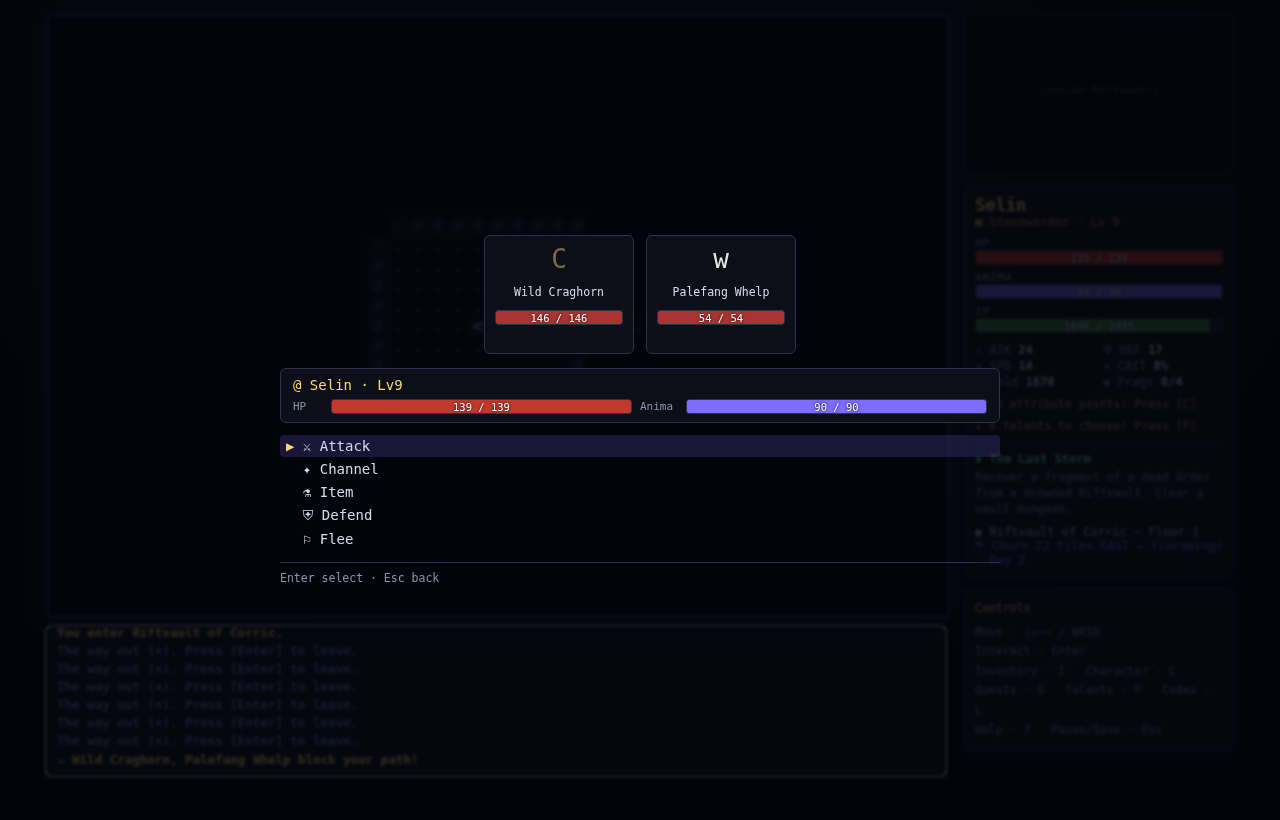
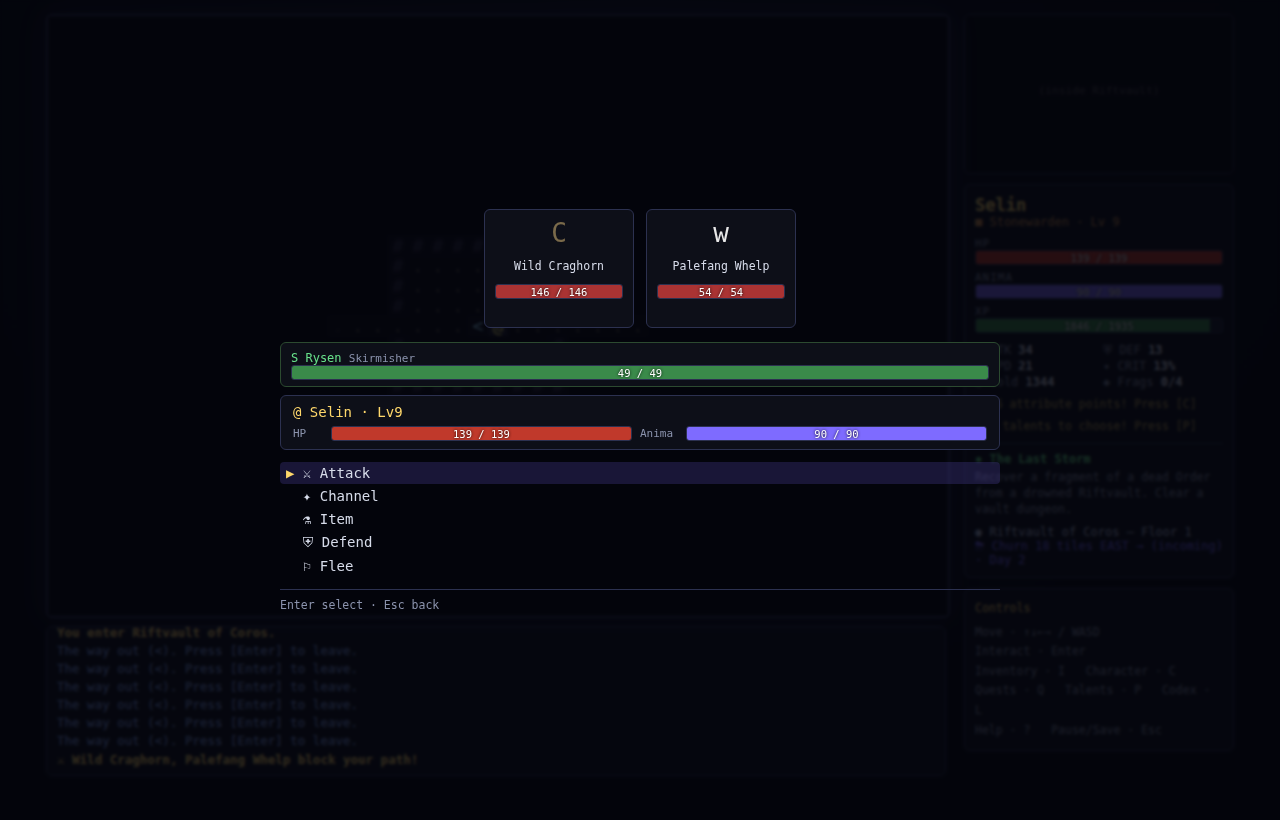
Companions: recruit followers who fight at your side
Recruit up to two companions at any hold's tavern (Warrior, Warden, Skirmisher,
Channeler — each with role-based stats). They join the combat resolver as a
true ally side:
- allies take initiative turns with a simple role AI (Channelers cast/heal you,
  Wardens guard, others swing);
- enemies now choose targets among you and your party (you're twice as likely);
- enemy AoE hits the whole party; allies can be DOWNED without ending the
  battle and revive to half HP after a win.
Combat UI shows ally HP bars; the character screen lists your party.

New src/data/companions.js; combat ally side + targeting + death handling;
recruit town service + screen; party persisted in saves.

Tests: logic 837 (incl. ally combat), desktop 37 (recruit + companion in
battle), mobile 15 — all green.

Claude-Session: https://claude.ai/code/session_012JuAjoBx2YqM5W9EUw89GY

Changed region(s): [[0.2188, 0.4268, 0.7812, 0.7622], [0.375, 0.2744, 0.625, 0.3963], [0.3125, 0.7012, 0.3438, 0.7622]]

diff --git a/src/screens.js b/src/screens.js
@@ -363,6 +363,12 @@
       html += '<div class="ch-h">Arts Known</div><div class="ab-list">';
       p.knownAbilities.forEach(function (id) { const ab = TLU.Abilities[id]; html += '<span class="ab">' + ab.name + ' <i>(' + (ab.cost || 0) + ')</i></span>'; });
       html += '</div>';
+      if (p.party && p.party.length) {
+        html += '<div class="ch-h">Companions</div><div class="ab-list">';
+        p.party.forEach(function (a) { html += '<span class="ab" style="color:' + a.color + '">' + esc(a.glyph + ' ' + a.name) + ' <i>' + a.roleName + ' Lv' + a.level + '</i></span>'; });
+        html += '</div>';
+      }
+      if (p.discoveries) html += '<div class="ch-d" style="margin-top:6px">◹ Discoveries charted: ' + p.discoveries + '</div>';
       html += '<div class="menu-foot">↑/↓ select attribute · Enter spend point · [P] perks · Esc close</div></div>';
       return html;
     },
@@ -464,13 +470,14 @@
 
   // ---- TOWN ----
   SCREENS.town = {
-    services: [['Rest at the inn (10g)', 'rest'], ['Visit the merchant', 'shop'], ['Visit the smith', 'smith'], ['Visit the alchemist', 'alchemy'], ['Train skills', 'train'], ['Speak with the townsfolk', 'folk'], ['Speak with the Warden', 'speak'], ['Leave'.toString(), 'leave']],
+    services: [['Rest at the inn (10g)', 'rest'], ['Visit the merchant', 'shop'], ['Visit the smith', 'smith'], ['Visit the alchemist', 'alchemy'], ['Train skills', 'train'], ['Speak with the townsfolk', 'folk'], ['Speak with the Warden', 'speak'], ['Recruit a companion', 'recruit'], ['Leave'.toString(), 'leave']],
     render: function (g) {
       const o = g.overlay, site = o.site;
       if (o.sub === 'shop') return SCREENS.town.renderShop(g);
       if (o.sub === 'train') return SCREENS.town.renderTrain(g);
       if (o.sub === 'smith') return SCREENS.town.renderSmith(g);
       if (o.sub === 'alchemy') return SCREENS.town.renderAlchemy(g);
+      if (o.sub === 'recruit') return SCREENS.town.renderRecruit(g);
       let html = '<div class="panel town"><div class="menu-title">⌂ ' + esc(site.name) + '</div>' +
         '<div class="town-desc">A churn-bunkered hold of the ' + (site.level > 6 ? 'eastern frontier' : 'western plains') + '. Travelers shelter behind its windward wall.</div>';
       html += UI.renderMenu({ items: SCREENS.town.services.map(function (s) { return { label: s[0] }; }), cursor: o.cursor });
@@ -483,12 +490,14 @@
       if (o.sub === 'train') return SCREENS.town.keyTrain(g, k);
       if (o.sub === 'smith') return SCREENS.town.keySmith(g, k);
       if (o.sub === 'alchemy') return SCREENS.town.keyAlchemy(g, k);
+      if (o.sub === 'recruit') return SCREENS.town.keyRecruit(g, k);
       menuNav(o, k, SCREENS.town.services.length, function (i) {
         const act = SCREENS.town.services[i][1];
         if (act === 'rest') SCREENS.town.rest(g);
         else if (act === 'shop') { o.sub = 'shop'; o.cursor = 0; o.mode = 'buy'; SCREENS.town.ensureStock(g); }
         else if (act === 'smith') { o.sub = 'smith'; o.cursor = 0; }
         else if (act === 'alchemy') { o.sub = 'alchemy'; o.cursor = 0; }
+        else if (act === 'recruit') { o.sub = 'recruit'; o.cursor = 0; SCREENS.town.ensureRecruits(g); }
         else if (act === 'train') { o.sub = 'train'; o.cursor = 0; }
         else if (act === 'folk') { g.openNpcs(o.site); return; }
         else if (act === 'speak') SCREENS.town.speak(g);
@@ -699,6 +708,47 @@
       });
       g.render();
     },
+    // ---- recruit companions (party max 2) ----
+    ensureRecruits: function (g) {
+      const site = g.overlay.site; const key = 'd' + g.day;
+      if (site._recruitKey === key && site._recruits) return;
+      const rng = new TLU.RNG(g.seed + ':recruit:' + site.x + ',' + site.y + ':' + g.day);
+      site._recruits = TLU.Companions.recruitOffer(rng, g.player.level + (site.level || 1) - 1);
+      site._recruitKey = key;
+    },
+    renderRecruit: function (g) {
+      const o = g.overlay, p = g.player, site = o.site;
+      const offer = site._recruits || [];
+      const items = offer.map(function (c) {
+        return { label: c.glyph + ' ' + esc(c.name) + ' the ' + c.roleName, hint: 'Lv ' + c.level + ' · HP ' + c.maxHp + ' · ' + c.cost + 'g', color: c.color };
+      });
+      if (!items.length) items.push({ label: '(none available today)', disabled: true });
+      let html = '<div class="panel"><div class="menu-title">⚑ Recruit · ' + p.gold + 'g · Party ' + (p.party ? p.party.length : 0) + '/2</div>' +
+        '<div class="town-desc">Sellswords and the Churn-touched gather in the tavern, looking for a Kindled to follow.</div>' +
+        UI.renderMenu({ items: items, cursor: o.cursor }) +
+        '<div class="menu-foot">Enter: hire · Esc: back</div></div>';
+      return html;
+    },
+    keyRecruit: function (g, k) {
+      const o = g.overlay, p = g.player, site = o.site;
+      if (k === 'Escape') { o.sub = null; o.cursor = 0; g.render(); return; }
+      const offer = site._recruits || [];
+      if (!offer.length) { g.render(); return; }
+      menuNav(o, k, offer.length, function (i) {
+        const c = offer[i];
+        p.party = p.party || [];
+        if (p.party.length >= 2) { g.msg('Your party is full (2).'); return; }
+        if (p.gold < c.cost) { g.msg('Not enough gold to hire ' + c.name + '.'); return; }
+        p.gold -= c.cost;
+        const hired = Object.assign({}, c); delete hired.cost;
+        hired.alive = true; hired.hp = hired.maxHp; hired.statuses = {};
+        p.party.push(hired);
+        offer.splice(i, 1);
+        g.msg('%c⚑ ' + hired.name + ' the ' + hired.roleName + ' joins your party!', 'good');
+        if (o.cursor >= offer.length) o.cursor = Math.max(0, offer.length - 1);
+      });
+      g.render();
+    },
   };
 
   // ---- DIALOG ----
@@ -741,6 +791,15 @@
           '<div class="cb-status">' + statusTags(e) + '</div></div>';
       });
       html += '</div>';
+      // allies (companions)
+      if (c.allies && c.allies.length) {
+        html += '<div class="cb-allies">';
+        c.allies.forEach(function (a) {
+          html += '<div class="cb-ally' + (a.alive ? '' : ' dead') + '"><span class="cb-aname" style="color:' + a.color + '">' + esc(a.glyph + ' ' + a.name) + ' <i>' + a.roleName + '</i></span>' +
+            (a.alive ? UI.bar(a.hp, a.maxHp, '#3a8a4a') : '<span class="slain">DOWNED</span>') + '</div>';
+        });
+        html += '</div>';
+      }
       // player panel
       html += '<div class="cb-player"><div class="cb-pname">@ ' + esc(p.name) + ' · Lv' + p.level + ' ' + statusTags(p) + '</div>' +
         '<div class="cb-bars">HP ' + UI.bar(p.hp, p.maxHp, '#c0392b') + 'Anima ' + UI.bar(p.stormlight, p.maxStormlight, '#7e6bff') + '</div></div>';

diff --git a/src/combat.js b/src/combat.js
@@ -38,9 +38,13 @@
     // ensure enemies have statuses + unique tags
     this.enemies.forEach(function (e, i) { e.statuses = e.statuses || {}; e._id = 'e' + i; e.alive = e.hp > 0; });
     this.player.statuses = this.player.statuses || {};
+    // companions fight on the player's side
+    this.allies = (opts.allies || []).filter(function (a) { return a && a.hp > 0; });
+    this.allies.forEach(function (a, i) { a.statuses = a.statuses || {}; a._id = 'a' + i; a.alive = a.hp > 0; a.kind = 'ally'; });
   }
 
   Combat.prototype.aliveEnemies = function () { return this.enemies.filter(function (e) { return e.alive && e.hp > 0; }); };
+  Combat.prototype.aliveAllies = function () { return this.allies.filter(function (a) { return a.alive && a.hp > 0; }); };
 
   Combat.prototype.start = function () {
     this.log('%c⚔ ' + this._enemyDesc() + ' block your path!', 'head');
@@ -56,7 +60,7 @@
   Combat.prototype._newRound = function () {
     this.round++;
     // build initiative
-    const all = [this.player].concat(this.aliveEnemies());
+    const all = [this.player].concat(this.aliveAllies()).concat(this.aliveEnemies());
     const rng = this.rng;
     all.forEach(function (a) { a._init = speedOf(a) + rng.float(0, 5); });
     all.sort(function (a, b) { return b._init - a._init; });
@@ -70,7 +74,7 @@
     while (!this.over) {
       if (this.turnIndex >= this.order.length) { this._newRound(); return; }
       const actor = this.order[this.turnIndex];
-      if (!actor || (actor.kind === 'enemy' && (!actor.alive || actor.hp <= 0))) { this.turnIndex++; continue; }
+      if (!actor || (actor.kind !== 'player' && (!actor.alive || actor.hp <= 0))) { this.turnIndex++; continue; }
       // status tick at start of this actor's turn
       const skip = this._tickStatuses(actor);
       if (this._checkEnd()) return;
@@ -80,6 +84,10 @@
       if (actor.kind === 'player') {
         this.awaitingPlayer = true;
         return; // wait for playerAct()
+      } else if (actor.kind === 'ally') {
+        this._allyTurn(actor);
+        this.turnIndex++;
+        if (this._checkEnd()) return;
       } else {
         this._enemyTurn(actor);
         this.turnIndex++;
@@ -159,11 +167,33 @@
     TLU.Player.removeItem(p, item, 1);
   };
 
+  // ---- ally (companion) AI ----
+  Combat.prototype._allyTurn = function (a) {
+    const enemies = this.aliveEnemies();
+    if (!enemies.length) return;
+    const p = this.player;
+    if (a.art) {
+      if (p.hp < p.maxHp * 0.4 && this.rng.chance(0.6)) { this.heal(p, Math.round(p.maxHp * 0.18), a.name + '’s mending'); return; }
+      this.magicHit(a, this.rng.pick(enemies), 1.2, 'storm', a.name + '’s Art');
+      return;
+    }
+    if (a.guardy && this.rng.chance(0.22)) { this.applyStatus(a, 'guard', 2); this.log(a.name + ' raises a guard.'); return; }
+    this.attack(a, this.rng.pick(enemies), {});
+  };
+
+  // pick whom an enemy strikes (player is twice as likely as any one ally)
+  Combat.prototype._enemyPickTarget = function () {
+    const pool = [this.player, this.player];
+    this.aliveAllies().forEach(function (a) { pool.push(a); });
+    const live = pool.filter(function (x) { return x.hp > 0; });
+    return live.length ? this.rng.pick(live) : this.player;
+  };
+
   // ---- enemy AI ----
   Combat.prototype._enemyTurn = function (e) {
     const p = this.player;
     const ctx = this._ctx(e);
-    ctx.target = p;
+    ctx.target = this._enemyPickTarget();
 
     // boss phase transitions
     if (e.boss && e.phases) this._bossPhase(e);
@@ -181,7 +211,7 @@
       this.log('%c' + e.name + ' uses ' + ab.name + '!', 'ecast');
       ab.effect(ctx);
     } else {
-      this.attack(e, p, {});
+      this.attack(e, ctx.target || p, {});
     }
   };
 
@@ -308,6 +338,10 @@
       if (this.rng.chance(0.5)) this.rewards.loot.push(TLU.Items.rollMaterial(this.rng, target));
       // track kills
       this.game.onEnemyKilled && this.game.onEnemyKilled(target);
+    } else if (target.kind === 'ally') {
+      if (!target.alive) return;
+      target.alive = false; target.hp = 0;
+      this.log('%c' + target.name + ' is downed!', 'bad');
     } else {
       // player died
       this.over = true; this.result = 'defeat';
@@ -341,7 +375,7 @@
     return {
       rng: this.rng, user: user, target: null, combat: this, log: this.log,
       enemies: this.enemies, allies: [this.player],
-      allies0: function () { return [self.player]; }, // "the player's side" for enemy AoE
+      allies0: function () { return [self.player].concat(self.aliveAllies()); }, // "the player's side" for enemy AoE
     };
   };
 

diff --git a/test/sim.js b/test/sim.js
@@ -22,7 +22,7 @@ vm.createContext(ctx);
 
 const root = path.join(__dirname, '..');
 const files = [
-  'src/rng.js', 'src/data/lore.js', 'src/data/skills.js', 'src/data/perks.js', 'src/data/items.js',
+  'src/rng.js', 'src/data/lore.js', 'src/data/skills.js', 'src/data/perks.js', 'src/data/companions.js', 'src/data/items.js',
   'src/data/abilities.js', 'src/data/bestiary.js', 'src/data/quests.js',
   'src/world.js', 'src/dungeon.js', 'src/player.js', 'src/combat.js', 'src/save.js',
 ];
@@ -154,6 +154,23 @@ for (let i = 0; i < 40; i++) {
   if (r.result !== 'victory' && r.result !== 'defeat') ok('battle ' + i + ' resolves', false);
 }
 ok('hero wins most level-appropriate fights (' + wins + '/' + battles + ')', wins >= battles * 0.6);
+
+// ---- companions fight alongside ----
+const ally0 = TLU.Companions.generate(new TLU.RNG('ally'), 5, 'warrior');
+ok('companion generated', ally0.kind === 'ally' && ally0.maxHp > 0 && ally0.atk > 0);
+(function () {
+  const cap = TLU.Player.newPlayer({ name: 'Cap', order: 'stoneward', weaponSkill: 'blunt', seed: 'cap' });
+  TLU.Player.gainXp(cap, 20000, noop); cap.hp = cap.maxHp; cap.stormlight = cap.maxStormlight;
+  const a = TLU.Companions.generate(new TLU.RNG('a2'), cap.level, 'channeler');
+  const enemies = TLU.Bestiary.spawnGroup(new TLU.RNG('eg'), 'plains', cap.level);
+  let ended = null;
+  const c = new TLU.Combat(stubGame(), { rng: new TLU.RNG('cb'), player: cap, enemies: enemies, allies: [a], level: cap.level, biome: 'plains', isBoss: false, canFlee: false, log: function () {}, onEnd: function (cc) { ended = cc.result; } });
+  c.start();
+  let guard = 0;
+  while (!c.over && guard++ < 2000) { if (c.awaitingPlayer) { const t = c.aliveEnemies()[0]; c.playerAct({ type: 'attack', target: t }); } else break; }
+  ok('ally is on the combat roster', c.allies.length === 1);
+  ok('ally combat resolves cleanly', ended === 'victory' || ended === 'defeat');
+})();
 
 // ---- final boss fight with a geared, high-level hero ----
 const champ = TLU.Player.newPlayer({ name: 'Champion', order: 'windrunner', weaponSkill: 'blades', seed: 'c' });

diff --git a/src/data/companions.js b/src/data/companions.js
@@ -1,0 +1,47 @@
+/* ============================================================
+ * companions.js — recruitable followers who fight at your side.
+ * A companion is a lightweight entity the combat resolver runs with
+ * a simple role-based AI. Recruited at holds; can be downed (not a
+ * game-over) and revives after a won battle.
+ * ============================================================ */
+(function (TLU) {
+  'use strict';
+
+  // stat multipliers vs a baseline; `art` channelers cast/heal instead of swing
+  const ROLES = {
+    warrior:    { name: 'Warrior',    glyph: 'W', color: '#ff9a5a', hp: 1.4, atk: 1.25, def: 1.1, spd: 0.95 },
+    warden:     { name: 'Warden',     glyph: 'D', color: '#7ec8ff', hp: 1.8, atk: 0.9,  def: 1.5, spd: 0.8, guard: true },
+    skirmisher: { name: 'Skirmisher', glyph: 'S', color: '#67e08a', hp: 1.0, atk: 1.15, def: 0.9, spd: 1.45 },
+    channeler:  { name: 'Channeler',  glyph: 'C', color: '#d9a7ff', hp: 0.95, atk: 1.35, def: 0.8, spd: 1.05, art: true },
+  };
+
+  function generate(rng, level, role) {
+    level = Math.max(1, level | 0);
+    role = role || rng.pick(Object.keys(ROLES));
+    const r = ROLES[role];
+    const c = {
+      kind: 'ally', role: role, roleName: r.name, glyph: r.glyph, color: r.color,
+      name: TLU.genName(rng), level: level,
+      maxHp: Math.round((40 + level * 9) * r.hp),
+      atk: Math.round((8 + level * 2.2) * r.atk),
+      def: Math.round((3 + level * 1.3) * r.def),
+      spd: Math.round((10 + level) * r.spd),
+      art: !!r.art, guardy: !!r.guard, alive: true, statuses: {},
+    };
+    c.hp = c.maxHp;
+    return c;
+  }
+
+  // a hireable pair offered at a hold, with gold costs
+  function recruitOffer(rng, level) {
+    const out = [];
+    for (let i = 0; i < 2; i++) {
+      const c = generate(rng, Math.max(1, level + rng.int(-1, 1)), null);
+      c.cost = 70 + (c.level) * 35 + rng.int(0, 40);
+      out.push(c);
+    }
+    return out;
+  }
+
+  TLU.Companions = { ROLES: ROLES, generate: generate, recruitOffer: recruitOffer };
+})(window.TLU = window.TLU || {});

diff --git a/test/browser.js b/test/browser.js
@@ -151,8 +151,17 @@ function serve() {
   for (let i = 0; i < 8; i++) { if ((await state()).ov !== 'dialog') break; await press('Enter'); }
   const mainStage = await page.evaluate(() => window.GAME.player.questState.main.stage);
   ok('main quest advanced past intro', mainStage >= 1);
-  // leave town
-  if ((await state()).ov === 'town') { await page.evaluate(() => { window.GAME.overlay.cursor = 7; }); await press('Enter'); }
+  // recruit a companion (service index 7)
+  if ((await state()).ov === 'town') {
+    await page.evaluate(() => { window.GAME.overlay.cursor = 7; });
+    await press('Enter'); ok('recruiter opens', (await title()).includes('Recruit'));
+    const partyBefore = await page.evaluate(() => window.GAME.player.party.length);
+    await press('Enter');                          // hire first sellsword
+    ok('companion hired', await page.evaluate(() => window.GAME.player.party.length) > partyBefore);
+    await press('Escape');
+  }
+  // leave town (service index 8)
+  if ((await state()).ov === 'town') { await page.evaluate(() => { window.GAME.overlay.cursor = 8; }); await press('Enter'); }
 
   // ----- landmark discovery (explorer payoff) -----
   await page.evaluate(() => {
@@ -193,6 +202,7 @@ function serve() {
   });
   await page.waitForTimeout(80);
   ok('combat screen renders', await page.locator('.combat').count() > 0);
+  ok('companion fights alongside', await page.evaluate(() => window.GAME.combat.allies.length) >= 1);
   await page.screenshot({ path: path.join(ROOT, 'assets', 'screenshot-combat.png') });
   const normEnded = await resolveCombat(page, press, state);
   ok('normal combat resolves', normEnded);

diff --git a/src/game.js b/src/game.js
@@ -452,6 +452,7 @@
     this.combat = new TLU.Combat(this, {
       rng: this.rng.fork('battle' + this.turnCount + ':' + enemies.length),
       player: this.player, enemies: enemies, level: opts.level, biome: opts.biome,
+      allies: (this.player.party || []).filter(function (a) { return a.alive && a.hp > 0; }),
       isBoss: opts.isBoss, canFlee: opts.canFlee,
       log: this.mkLog(),
       onEnd: function (c) { self.onCombatEnd(c); },
@@ -467,6 +468,10 @@
     if (c.result === 'victory') {
       TLU.Player.gainXp(p, c.rewards.xp, this.mkLog());
       TLU.Player.addGold(p, c.rewards.gold);
+      // revive downed companions to half health after a won battle
+      (p.party || []).forEach(function (a) {
+        if (!a.alive || a.hp <= 0) { a.alive = true; a.hp = Math.max(1, Math.round(a.maxHp * 0.5)); }
+      });
       const loot = (c.rewards.loot || []).filter(Boolean);
       // remove dead from dungeon floor
       if (this.mode === 'dungeon') this.dungeon.floor.entities = this.dungeon.floor.entities.filter(function (e) { return e.alive; });

diff --git a/styles.css b/styles.css
@@ -168,6 +168,11 @@ html, body {
 .cb-name { font-size: 11.5px; margin: 4px 0; height: 28px; display:flex; align-items:center; justify-content:center; }
 .slain { color: var(--bad); font-size: 11px; }
 .cb-status { margin-top: 4px; min-height: 16px; }
+.cb-allies { display: flex; flex-wrap: wrap; gap: 8px; margin-bottom: 8px; }
+.cb-ally { flex: 1; min-width: 200px; background: var(--panel); border: 1px solid #2c4a30; border-radius: 6px; padding: 6px 10px; }
+.cb-ally.dead { opacity: 0.4; }
+.cb-aname { font-size: 12px; }
+.cb-aname i { color: var(--dim); font-style: normal; font-size: 11px; }
 .cb-player { background: var(--panel); border: 1px solid var(--border); border-radius: 6px; padding: 8px 12px; margin-bottom: 12px; }
 .cb-pname { color: var(--gold); margin-bottom: 6px; }
 .cb-bars { display: grid; grid-template-columns: 30px 1fr 38px 1fr; gap: 4px 8px; align-items: center; font-size: 11px; color: var(--dim); }

diff --git a/index.html b/index.html
@@ -38,6 +38,7 @@
 <script src="src/data/lore.js"></script>
 <script src="src/data/skills.js"></script>
 <script src="src/data/perks.js"></script>
+<script src="src/data/companions.js"></script>
 <script src="src/data/items.js"></script>
 <script src="src/data/abilities.js"></script>
 <script src="src/data/bestiary.js"></script>

diff --git a/src/player.js b/src/player.js
@@ -37,6 +37,8 @@
       questState: {}, // questId -> { stage }
       kills: {}, campsCleared: 0, vaultsCleared: 0, deepestVault: 0, gemsFound: 0,
       codex: { bestiary: {}, places: {}, biomes: {}, rumors: [] },
+      party: [],
+      discoveries: 0,
       stats: { steps: 0, kills: 0, deaths: 0, found: 0 },
     };
 
